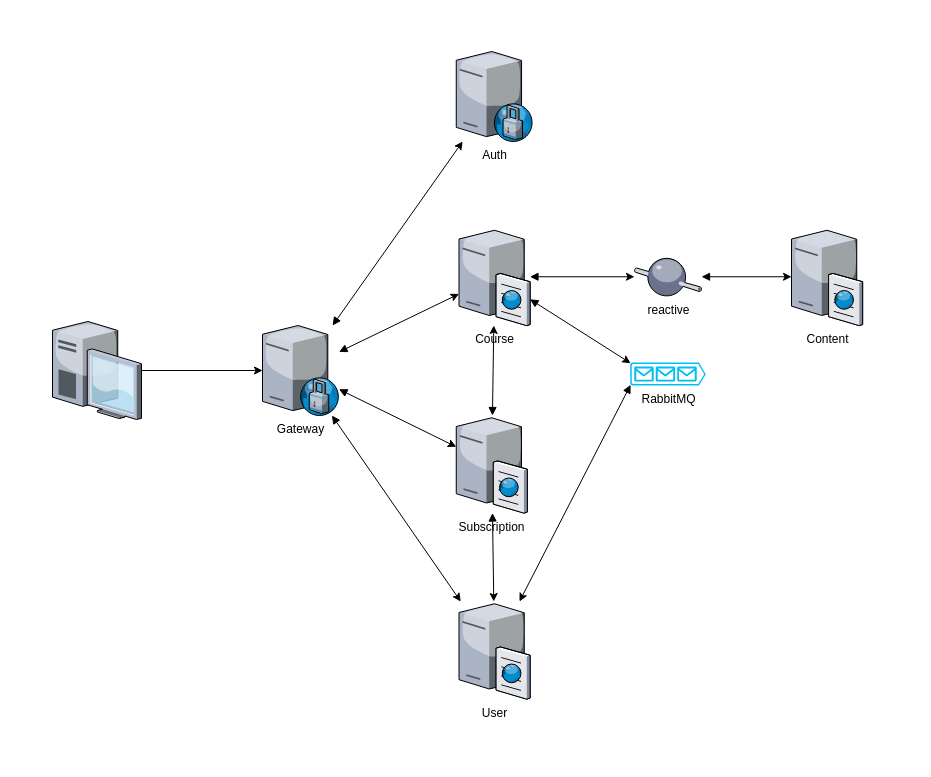
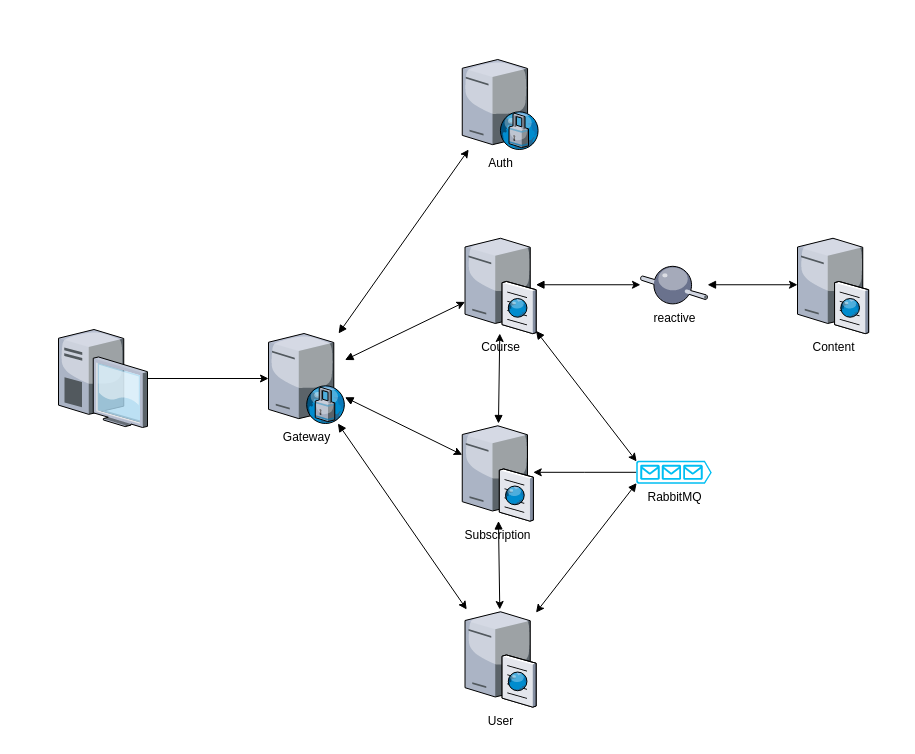
integration between user and course by rabbitmq and cloud message

diff --git a/course/src/main/java/com/microservices/course/CourseService.java b/course/src/main/java/com/microservices/course/CourseService.java
@@ -2,8 +2,8 @@ package com.microservices.course;
 
 import com.microservices.core.exceptions.ObjectNotFoundException;
 import com.microservices.core.response.PageService;
-import com.microservices.core.user.UserDTO;
 import com.microservices.core.user.AuthService;
+import com.microservices.core.user.UserDTO;
 import lombok.SneakyThrows;
 import org.modelmapper.ModelMapper;
 import org.springframework.beans.factory.annotation.Autowired;
@@ -13,6 +13,7 @@ import org.springframework.data.domain.PageRequest;
 import org.springframework.stereotype.Service;
 import org.springframework.transaction.annotation.Transactional;
 
+import java.util.List;
 import java.util.Optional;
 
 @Service
@@ -65,6 +66,15 @@ public class CourseService {
         Course course = findCourseById(id).orElseThrow(() -> new ObjectNotFoundException("Course not found"));
         course.softDelete();
         courseRepository.save(course);
+    }
+
+    @Transactional(rollbackFor = Exception.class)
+    public void deleteByUser(Long id) {
+        List<Course> courses = courseRepository.findAllByUser(id);
+        courses.forEach(c -> {
+            c.softDelete();
+            courseRepository.save(c);
+        });
     }
 
 }

diff --git a/user/src/main/java/com/microservices/user/UserController.java b/user/src/main/java/com/microservices/user/UserController.java
@@ -1,6 +1,8 @@
 package com.microservices.user;
 
 import com.microservices.core.response.RestResponse;
+import com.microservices.user.mq.UserProducer;
+import com.microservices.user.mq.UserSource;
 import lombok.extern.slf4j.Slf4j;
 import org.springframework.beans.factory.annotation.Autowired;
 import org.springframework.data.domain.Page;
@@ -18,6 +20,10 @@ public class UserController {
     private UserService userService;
     @Autowired
     private RestResponse response;
+    @Autowired
+    private UserSource userSource;
+    @Autowired
+    private UserProducer userProducer;
 
     @GetMapping
     public ResponseEntity<Object> findAll(@RequestParam(value = "page", defaultValue = "0", required = false) Integer page,
@@ -54,7 +60,10 @@ public class UserController {
 
     @DeleteMapping("/{id}")
     public ResponseEntity<Object> delete(@PathVariable Long id) {
+        UserDTO user = userService.findById(id);
         userService.delete(id);
+        // this method triggers remove all courses and subscriptions
+        userProducer.sendMessageProduct(user, userSource);
         return response.noContent();
     }
 

diff --git a/course/src/main/java/com/microservices/course/mq/UserConsumer.java b/course/src/main/java/com/microservices/course/mq/UserConsumer.java
@@ -1,0 +1,26 @@
+package com.microservices.course.mq;
+
+import com.microservices.core.user.UserDTO;
+import com.microservices.course.CourseService;
+import lombok.extern.slf4j.Slf4j;
+import org.springframework.beans.factory.annotation.Autowired;
+import org.springframework.cloud.stream.annotation.EnableBinding;
+import org.springframework.cloud.stream.annotation.StreamListener;
+import org.springframework.cloud.stream.messaging.Sink;
+import org.springframework.context.annotation.Lazy;
+
+@EnableBinding(Sink.class)
+@Slf4j
+public class UserConsumer {
+
+    @Autowired
+    @Lazy
+    CourseService courseService;
+
+    @StreamListener(Sink.INPUT)
+    public void readMessage(UserDTO user) {
+       log.info("Removing courses of author: " + user.toString());
+       courseService.deleteByUser(user.getId());
+    }
+
+}

diff --git a/course/src/main/java/com/microservices/course/CourseRepository.java b/course/src/main/java/com/microservices/course/CourseRepository.java
@@ -8,10 +8,14 @@ import org.springframework.data.repository.query.Param;
 import org.springframework.stereotype.Repository;
 import org.springframework.transaction.annotation.Transactional;
 
+import java.util.List;
+
 @Repository
 @Transactional(readOnly = true)
 public interface CourseRepository extends JpaRepository<Course, Long> {
     @Query("SELECT c FROM Course c WHERE c.deletedAt IS NULL AND c.title LIKE :_param%")
     Page<Course> findAll(@Param("_param") String param, Pageable pageable);
+
+    List<Course> findAllByUser(@Param("_user") Long user);
 
 }

diff --git a/user/src/main/java/com/microservices/user/mq/UserProducer.java b/user/src/main/java/com/microservices/user/mq/UserProducer.java
@@ -1,0 +1,17 @@
+package com.microservices.user.mq;
+
+import com.microservices.user.UserDTO;
+import org.springframework.messaging.Message;
+import org.springframework.messaging.support.MessageBuilder;
+import org.springframework.stereotype.Component;
+
+@Component
+public class UserProducer {
+
+    public boolean sendMessageProduct(UserDTO payload, UserSource userSource){
+        Message<UserDTO> message = MessageBuilder.withPayload(payload).build();
+        boolean success = userSource.sendMessage().send(message);
+        return success;
+    }
+
+}

diff --git a/user/src/main/java/com/microservices/user/mq/UserSource.java b/user/src/main/java/com/microservices/user/mq/UserSource.java
@@ -1,0 +1,11 @@
+package com.microservices.user.mq;
+
+import org.springframework.cloud.stream.annotation.Output;
+import org.springframework.messaging.MessageChannel;
+
+    public interface UserSource {
+
+        @Output("user-channel")
+        public MessageChannel sendMessage();
+
+    }

diff --git a/user/src/main/java/com/microservices/user/mq/UserSourceImpl.java b/user/src/main/java/com/microservices/user/mq/UserSourceImpl.java
@@ -1,0 +1,8 @@
+package com.microservices.user.mq;
+
+import org.springframework.cloud.stream.annotation.EnableBinding;
+
+@EnableBinding(UserSource.class)
+public class UserSourceImpl {
+
+}

diff --git a/core/src/main/java/com/microservices/core/user/UserDTO.java b/core/src/main/java/com/microservices/core/user/UserDTO.java
@@ -10,6 +10,7 @@ import java.io.Serializable;
 @Builder
 @AllArgsConstructor
 @NoArgsConstructor
+@ToString
 public class UserDTO implements Serializable {
 
     private Long id;
